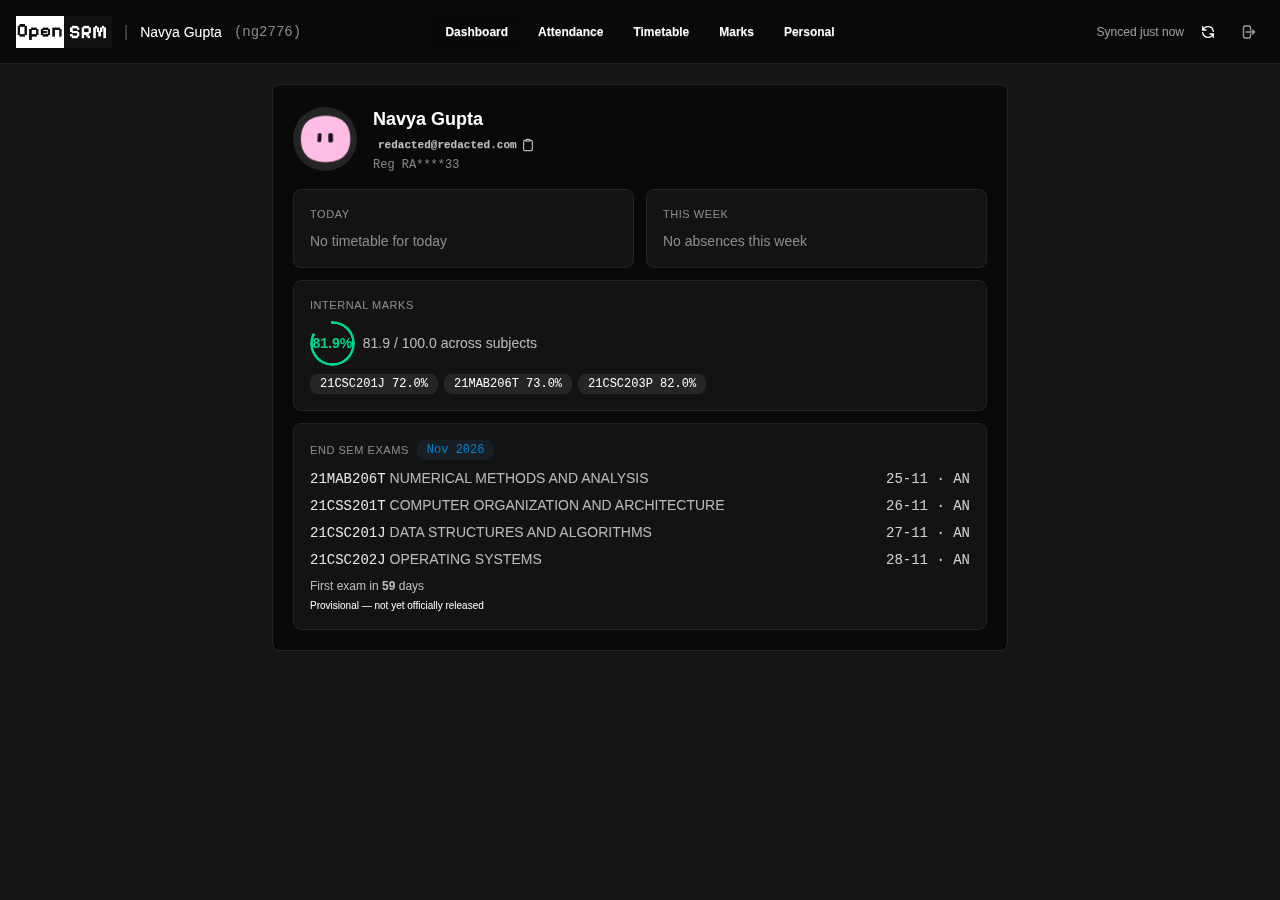
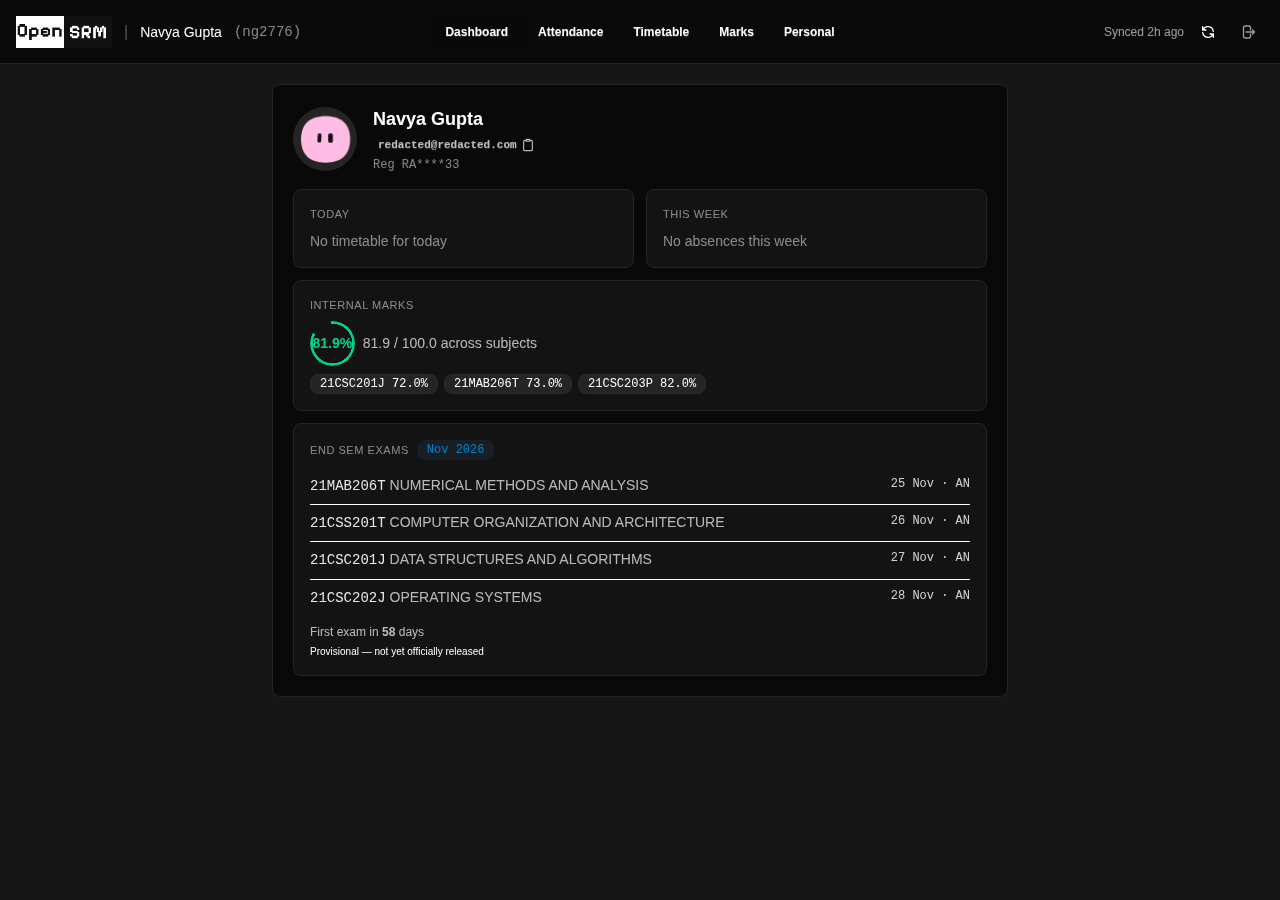
fix(web): unclutter the exam card on mobile — aligned date column
Mobile rows were ragged: subject names wrapped 2-3 lines while the date
floated at the top right, leaving no vertical reading line. Now each row
is a fixed-width date block (date over session, right-aligned) plus the
subject, with hairline dividers between rows. Desktop keeps the original
single-line layout via sm: breakpoints (hidden/shown spans, no JS).

Dates now read '25 Nov' instead of '25-11' (computed in _exams_view with a
raw-value fallback for junk dates); the badge keeps month+year.

Vision-verified 393x851 + 1280x900: rows aligned, no clipping, dividers
even, zero inline JS (CSP unchanged).

diff --git a/app/templates/dashboard.html b/app/templates/dashboard.html
@@ -203,14 +203,19 @@
               <div class="text-[11px] uppercase tracking-wider text-base-content/50">End sem exams</div>
               <span class="badge badge-soft badge-info badge-sm font-mono">{{ exams.label }}</span>
             </div>
-            <ul class="space-y-1.5">
+            <ul class="divide-y divide-base-300/40">
               {% for e in exams.rows %}
-              <li class="flex items-baseline justify-between gap-2 text-sm">
-                <span class="min-w-0 flex-1">
+              <li class="flex items-start gap-3 py-2">
+                <!-- mobile: fixed-width date column keeps every row aligned -->
+                <span class="w-12 shrink-0 text-right sm:hidden">
+                  <span class="block font-mono text-xs text-base-content/90">{{ e.short }}</span>
+                  <span class="block font-mono text-[10px] text-base-content/50">{{ e.session }}</span>
+                </span>
+                <span class="min-w-0 flex-1 text-sm leading-snug">
                   <span class="font-mono text-base-content/90">{{ e.code }}</span>
                   <span class="text-base-content/70">{{ e.name }}</span>
                 </span>
-                <span class="shrink-0 font-mono text-base-content/80 text-xs sm:text-sm">{{ e.date[:5] }} · {{ e.session }}</span>
+                <span class="hidden shrink-0 font-mono text-xs text-base-content/80 sm:inline">{{ e.short }} · {{ e.session }}</span>
               </li>
               {% endfor %}
             </ul>

diff --git a/app/app.py b/app/app.py
@@ -1456,6 +1456,11 @@ def _exams_view(rows):
         except ValueError:
             return datetime.max
     rows = sorted(rows, key=ts)
+    for r in rows:  # display form '25 Nov'; junk dates fall back to the raw value
+        try:
+            r["short"] = datetime.strptime(r.get("date", ""), "%d-%m-%Y").strftime("%d %b")
+        except ValueError:
+            r["short"] = r.get("date", "")
     first = ts(rows[0])
     days = (first.date() - datetime.now().date()).days
     return {"rows": rows, "label": first.strftime("%b %Y"), "days_until": days}
